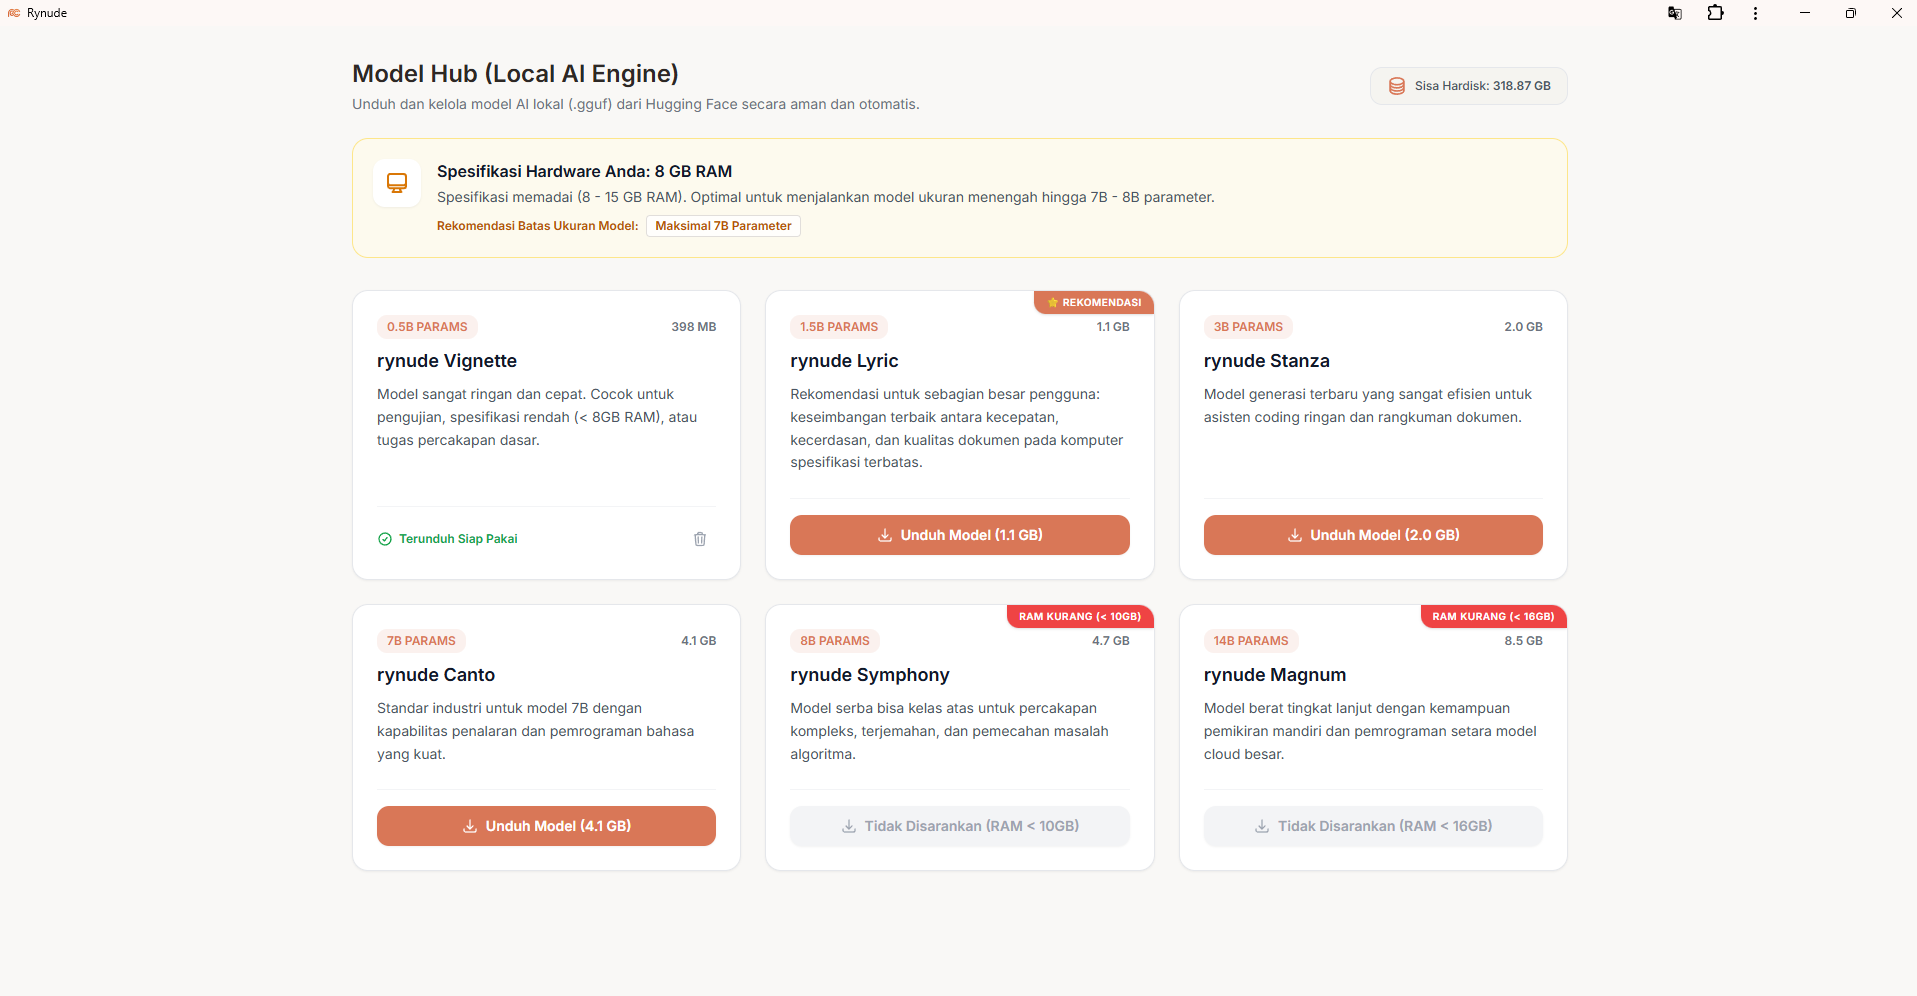
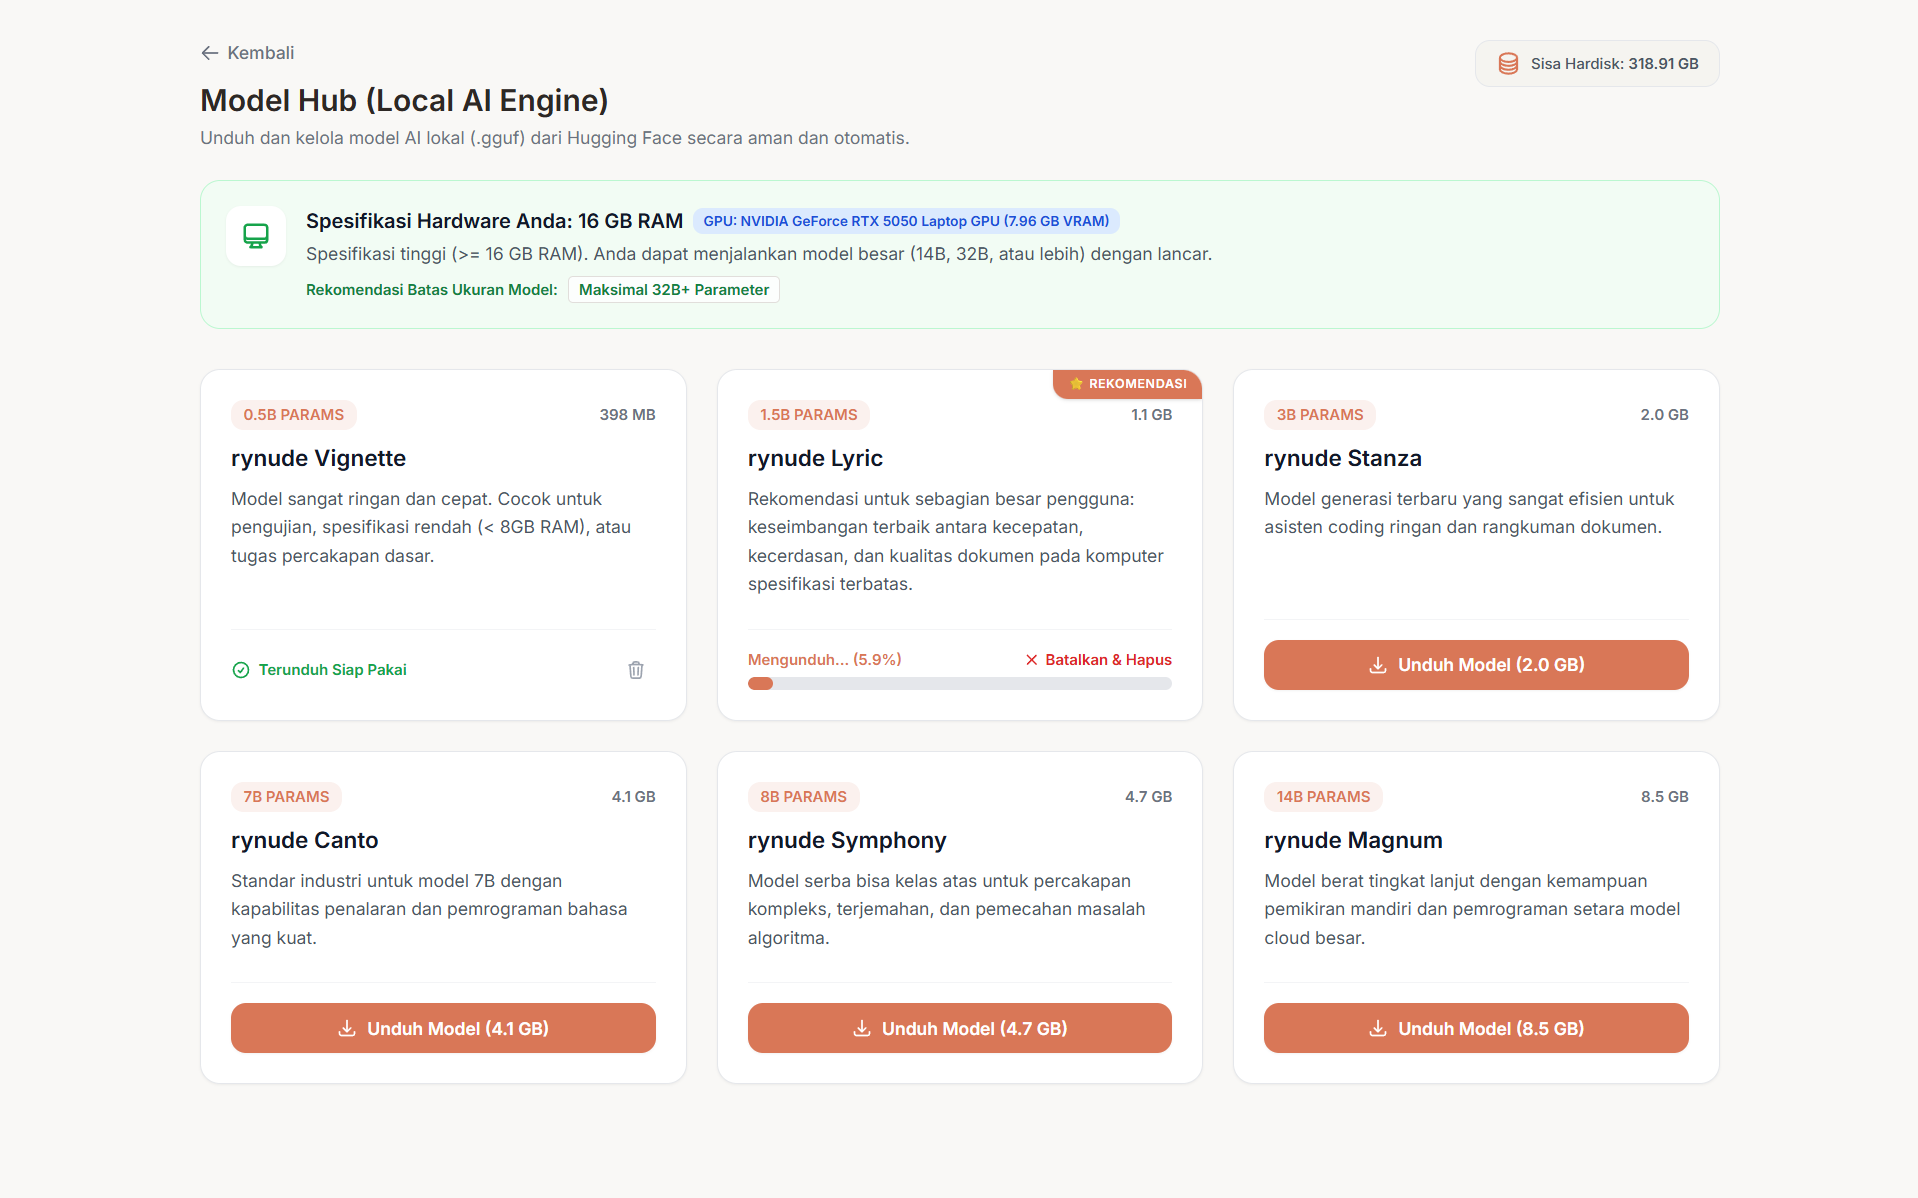
feat: Add highlight.js, katex, and marked.js for enhanced code highlighting and math rendering

diff --git a/resources/css/app.css b/resources/css/app.css
@@ -1,4 +1,6 @@
 @import url('https://fonts.googleapis.com/css2?family=Inter:wght@400;500;600&family=Newsreader:ital,opsz,wght@0,6..72,400;0,6..72,500;0,6..72,600;0,6..72,700;1,6..72,400;1,6..72,500&family=JetBrains+Mono:wght@400;500&display=swap');
+@import 'highlight.js/styles/github-dark.css';
+@import 'katex/dist/katex.min.css';
 
 @font-face {
     font-family: 'Anthropic Serif';

diff --git a/resources/js/app.js b/resources/js/app.js
@@ -1,6 +1,13 @@
 import './bootstrap';
 import Alpine from 'alpinejs';
 import mermaid from 'mermaid';
+import hljs from 'highlight.js';
+import { marked } from 'marked';
+import katex from 'katex';
+
+window.hljs = hljs;
+window.marked = marked;
+window.katex = katex;
 
 // Initialize Mermaid.js
 mermaid.initialize({

diff --git a/resources/views/livewire/api-keys-panel.blade.php b/resources/views/livewire/api-keys-panel.blade.php
@@ -121,7 +121,7 @@
                                     <div class="w-2 h-2 rounded-full flex-shrink-0" :class="m.is_active?'bg-green-500':'bg-gray-300 dark:bg-stone-600'"></div>
                                     <div class="min-w-0">
                                         <div class="text-[14px] font-medium text-[#2D2825] dark:text-stone-200 truncate" x-text="m.name"></div>
-                                        <div class="text-[12px] text-gray-500 dark:text-stone-400 truncate" x-text="m.code"></div>
+                                        <div class="text-[12px] text-gray-500 dark:text-stone-400 truncate" x-text="formatDisplayCode(m.code)"></div>
                                     </div>
                                 </div>
                                 <div class="flex items-center gap-1 flex-shrink-0">
@@ -157,15 +157,17 @@
                     </template>
                 </div>
 
-                <div class="relative mb-6">
-                    <div class="absolute inset-y-0 left-0 pl-3 flex items-center pointer-events-none">
-                        <svg class="h-4 w-4 text-gray-400 dark:text-stone-500" fill="none" stroke="currentColor" viewBox="0 0 24 24" stroke-width="2"><path stroke-linecap="round" stroke-linejoin="round" d="M21 21l-5.197-5.197m0 0A7.5 7.5 0 105.196 5.196a7.5 7.5 0 0010.607 10.607z"/></svg>
-                    </div>
-                    <input type="text" x-model="searchQuery" placeholder="Search by name, provider, code..." class="w-full pl-10 pr-10 py-2.5 rounded-xl border border-claude-border-light dark:border-claude-border-dark bg-white dark:bg-[#1E1E20] text-[14px] text-[#2D2825] dark:text-stone-200 focus:outline-none focus:border-[#D97757] focus:ring-1 focus:ring-[#D97757] transition-colors placeholder-gray-400 dark:placeholder-stone-500 shadow-sm">
-                    <button x-show="searchQuery.length > 0" @click="searchQuery = ''" class="absolute inset-y-0 right-0 pr-3 flex items-center text-gray-400 hover:text-gray-600 dark:hover:text-stone-300 transition-colors">
-                        <svg class="h-4 w-4" fill="none" stroke="currentColor" viewBox="0 0 24 24" stroke-width="2"><path stroke-linecap="round" stroke-linejoin="round" d="M6 18L18 6M6 6l12 12"/></svg>
-                    </button>
-                </div>
+<div class="relative mb-6">
+    <svg class="absolute left-4 top-1/2 -translate-y-1/2 w-5 h-5 text-gray-400" fill="none" stroke="currentColor" viewBox="0 0 24 24" stroke-width="2">
+        <path stroke-linecap="round" stroke-linejoin="round" d="M21 21l-5.197-5.197m0 0A7.5 7.5 0 105.196 5.196a7.5 7.5 0 0010.607 10.607z"/>
+    </svg>
+    <input 
+        type="text" 
+        x-model="searchQuery" 
+        placeholder="Search by name, provider, code..." 
+        class="w-full pl-11 pr-4 py-3 rounded-xl border border-stone-200 dark:border-stone-700 bg-[#F9F8F6] dark:bg-claude-bg-dark text-[15px] text-[#2D2825] dark:text-stone-200 placeholder-stone-400 focus:outline-none focus:ring-0 focus:border-stone-300 dark:focus:border-stone-500 transition-all"
+    >
+</div>
 
                 <div class="space-y-2">
                     <template x-for="m in filteredModels" :key="m.id">
@@ -175,7 +177,7 @@
                                 <div class="min-w-0">
                                     <div class="text-[14px] font-medium text-[#2D2825] dark:text-stone-200 truncate" x-text="m.name"></div>
                                     <div class="text-[12px] text-gray-500 dark:text-stone-400 truncate flex items-center gap-2">
-                                        <span x-text="m.code"></span>
+                                        <span x-text="formatDisplayCode(m.code)"></span>
                                         <span class="px-1.5 py-0.5 rounded text-[10px] font-medium bg-gray-100 dark:bg-stone-700 text-gray-600 dark:text-stone-300" x-text="m.provider||'?'"></span>
                                     </div>
                                 </div>
@@ -1123,7 +1125,23 @@ function apiKeysPage(){
             }).catch(()=>{this.dlgSaving=false;this.dlgErr='Network error.'});
         },
         toggleModel(m){this._patch({_action:'toggle_model',model_id:m.id}).then(()=>this.load())},
-        async delModel(m){if(!(await showConfirm('Delete this model?')))return;this._patch({_action:'delete_model',model_id:m.id}).then(()=>this.load())}
+        async delModel(m){if(!(await showConfirm('Delete this model?')))return;this._patch({_action:'delete_model',model_id:m.id}).then(()=>this.load())},
+        formatDisplayCode(c) {
+            if(!c) return '';
+            const m = {
+                'kr/claude-sonnet-4.5': 'rynude Sonnet 4.5',
+                'kr/claude-haiku-4.5': 'rynude Haiku 4.5',
+                'claude-opus-4-8': 'rynude Opus 4.8',
+                'llama-3.1-8b': 'rynude Symphony',
+                'qwen-2.5-0.5b': 'rynude Vignette',
+                'qwen-2.5-1.5b': 'rynude Lyric',
+                'llama-3.2-3b': 'rynude Stanza',
+                'mistral-7b-v0.3': 'rynude Canto',
+                'qwen-2.5-14b': 'rynude Magnum'
+            };
+            if (m[c]) return m[c];
+            return c.replace(/^kr\//,'').replace(/-/g,' ').replace(/\b(v0\.\d+|v\d+)\b/g,'').trim().split(' ').map(w=>w.charAt(0).toUpperCase()+w.slice(1)).join(' ');
+        }
     };
 }
 </script>

diff --git a/resources/views/api-keys.blade.php b/resources/views/api-keys.blade.php
@@ -121,7 +121,7 @@
                                     <div class="w-2 h-2 rounded-full flex-shrink-0" :class="m.is_active?'bg-green-500':'bg-gray-300 dark:bg-stone-600'"></div>
                                     <div class="min-w-0">
                                         <div class="text-[14px] font-medium text-[#2D2825] dark:text-stone-200 truncate" x-text="m.name"></div>
-                                        <div class="text-[12px] text-gray-500 dark:text-stone-400 truncate" x-text="m.code"></div>
+                                        <div class="text-[12px] text-gray-500 dark:text-stone-400 truncate" x-text="formatDisplayCode(m.code)"></div>
                                     </div>
                                 </div>
                                 <div class="flex items-center gap-1 flex-shrink-0">
@@ -165,7 +165,7 @@
                                 <div class="min-w-0">
                                     <div class="text-[14px] font-medium text-[#2D2825] dark:text-stone-200 truncate" x-text="m.name"></div>
                                     <div class="text-[12px] text-gray-500 dark:text-stone-400 truncate flex items-center gap-2">
-                                        <span x-text="m.code"></span>
+                                        <span x-text="formatDisplayCode(m.code)"></span>
                                         <span class="px-1.5 py-0.5 rounded text-[10px] font-medium bg-gray-100 dark:bg-stone-700 text-gray-600 dark:text-stone-300" x-text="m.provider||'?'"></span>
                                     </div>
                                 </div>
@@ -1078,7 +1078,23 @@ function apiKeysPage(){
             }).catch(()=>{this.dlgSaving=false;this.dlgErr='Network error.'});
         },
         toggleModel(m){this._patch({_action:'toggle_model',model_id:m.id}).then(()=>this.load())},
-        async delModel(m){if(!(await showConfirm('Delete this model?')))return;this._patch({_action:'delete_model',model_id:m.id}).then(()=>this.load())}
+        async delModel(m){if(!(await showConfirm('Delete this model?')))return;this._patch({_action:'delete_model',model_id:m.id}).then(()=>this.load())},
+        formatDisplayCode(c) {
+            if(!c) return '';
+            const m = {
+                'kr/claude-sonnet-4.5': 'rynude Sonnet 4.5',
+                'kr/claude-haiku-4.5': 'rynude Haiku 4.5',
+                'claude-opus-4-8': 'rynude Opus 4.8',
+                'llama-3.1-8b': 'rynude Symphony',
+                'qwen-2.5-0.5b': 'rynude Vignette',
+                'qwen-2.5-1.5b': 'rynude Lyric',
+                'llama-3.2-3b': 'rynude Stanza',
+                'mistral-7b-v0.3': 'rynude Canto',
+                'qwen-2.5-14b': 'rynude Magnum'
+            };
+            if (m[c]) return m[c];
+            return c.replace(/^kr\//,'').replace(/-/g,' ').replace(/\b(v0\.\d+|v\d+)\b/g,'').trim().split(' ').map(w=>w.charAt(0).toUpperCase()+w.slice(1)).join(' ');
+        }
     };
 }
 </script>

diff --git a/resources/views/layouts/app.blade.php b/resources/views/layouts/app.blade.php
@@ -68,17 +68,6 @@
         <!-- Scripts -->
         @vite(['resources/css/app.css', 'resources/js/app.js'])
 
-        <!-- Highlight.js -->
-        <link rel="stylesheet" href="https://cdnjs.cloudflare.com/ajax/libs/highlight.js/11.9.0/styles/github-dark.min.css">
-        <script src="https://cdnjs.cloudflare.com/ajax/libs/highlight.js/11.9.0/highlight.min.js"></script>
-
-        <!-- Marked.js for Markdown rendering -->
-        <script src="https://cdn.jsdelivr.net/npm/marked/marked.min.js"></script>
-
-        <!-- KaTeX for LaTeX math rendering -->
-        <link rel="stylesheet" href="https://cdn.jsdelivr.net/npm/katex@0.16.11/dist/katex.min.css">
-        <script src="https://cdn.jsdelivr.net/npm/katex@0.16.11/dist/katex.min.js"></script>
-
         <!-- Theme Initialization -->
         <script>
             // Force dark mode on /code route (Claude Code terminal page)
